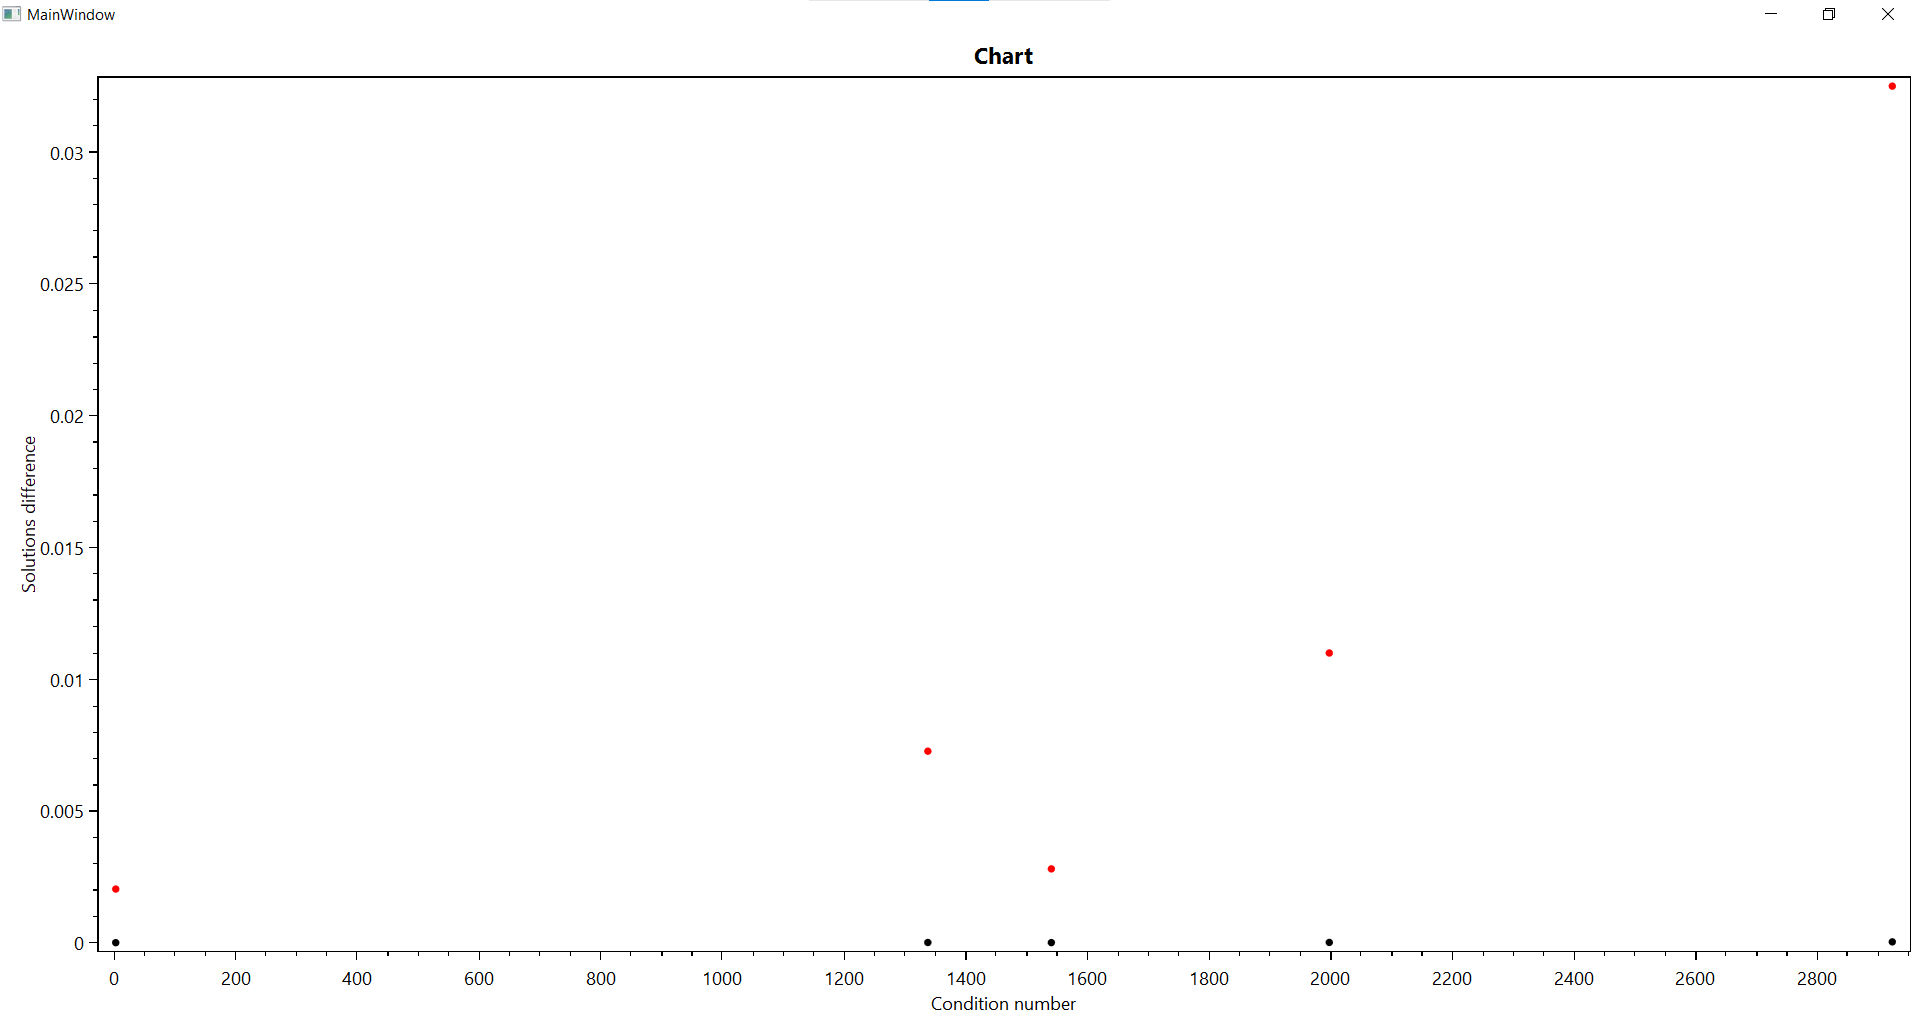
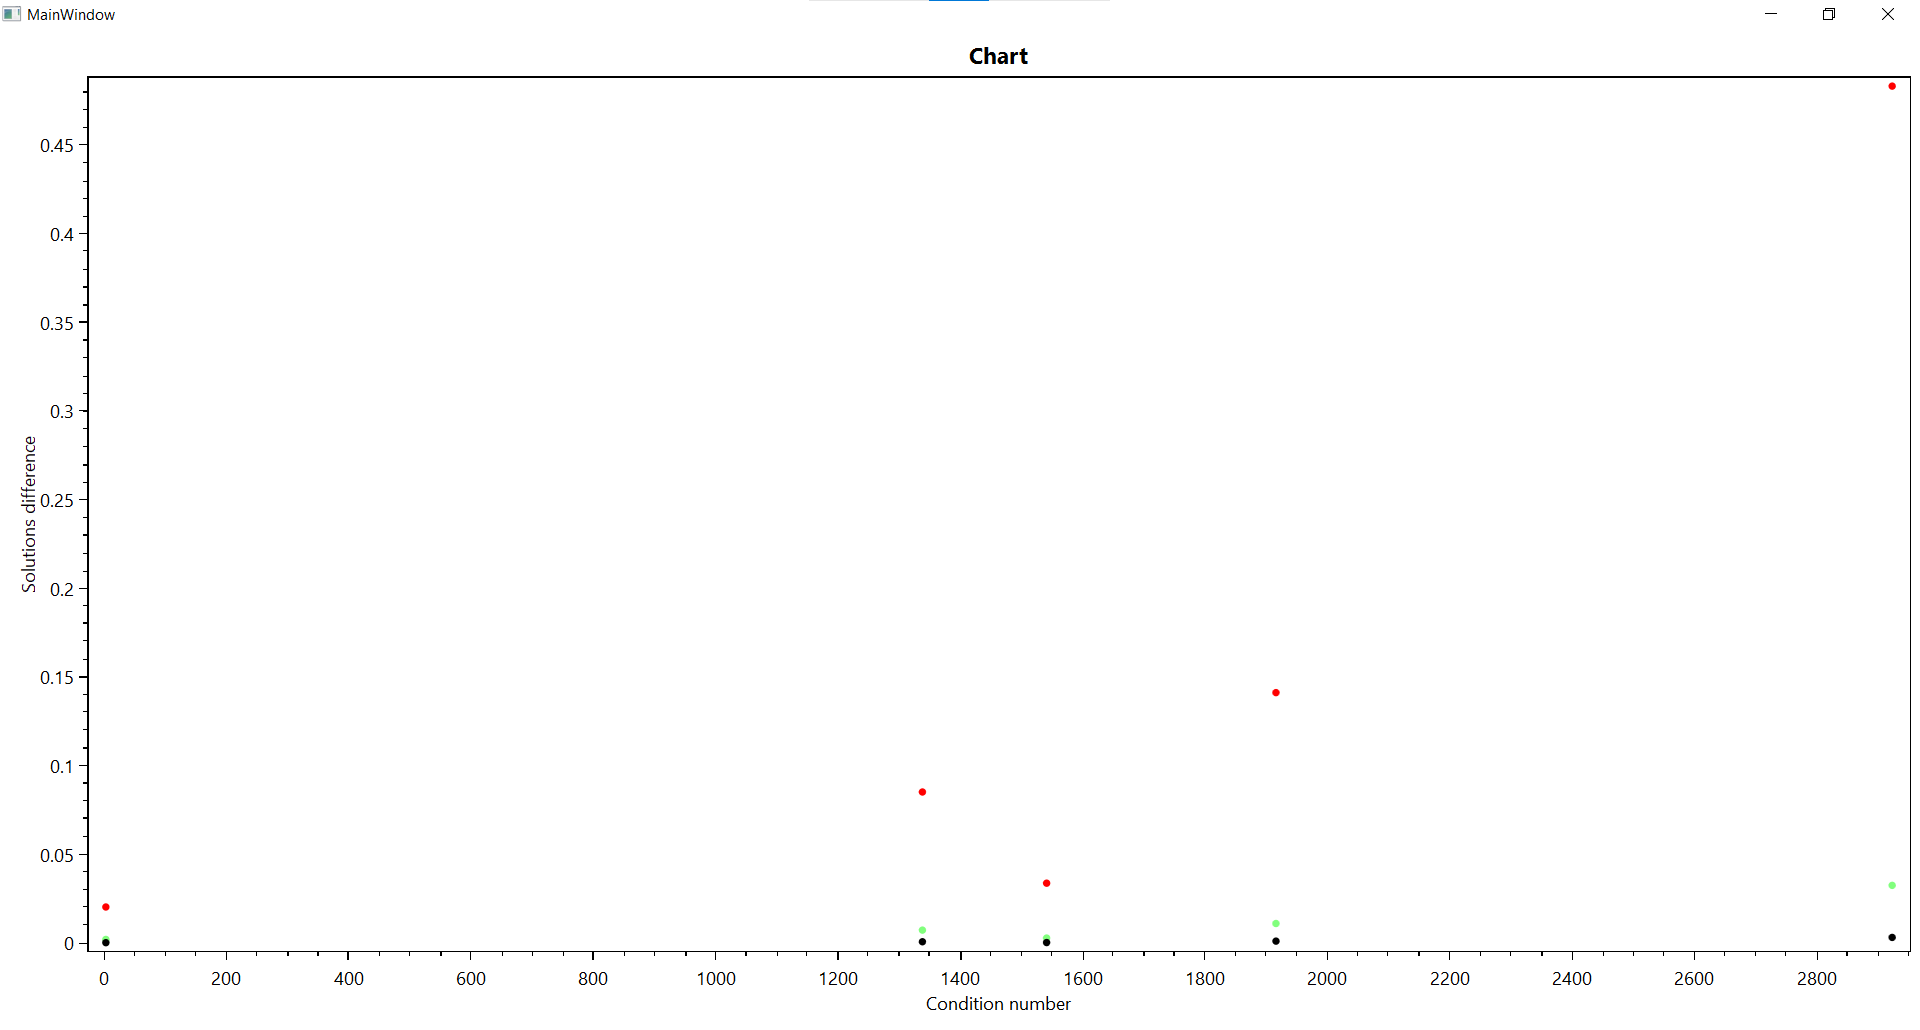
Added another points series and updated pictures

diff --git a/Semester6/Task1/Task1.Chart/MainWindow.xaml.cs b/Semester6/Task1/Task1.Chart/MainWindow.xaml.cs
@@ -116,24 +116,31 @@ namespace Task1.Chart
                 var volumetricCriterion = conditionNumber.CalculateVolumetricCriterion();
                 var angleCriterion = conditionNumber.CalculateAngleCriterion();
 
+                var variedSolution1 = conditionNumber.CalculateVariedSolution(0.1);
                 var variedSolution2 = conditionNumber.CalculateVariedSolution(0.01);
-                var variedSolution5 = conditionNumber.CalculateVariedSolution(0.00001);
+                var variedSolution3 = conditionNumber.CalculateVariedSolution(0.001);
+                var difference1 = equations[i].Item3 - variedSolution1;
                 var difference2 = equations[i].Item3 - variedSolution2;
-                var difference5 = equations[i].Item3 - variedSolution5;
+                var difference3 = equations[i].Item3 - variedSolution3;
+                double delta1 = 0;
                 double delta2 = 0;
-                double delta5 = 0;
+                double delta3 = 0;
                 for (var j = 0; j < equations[i].Item1.RowCount; j++)
                 {
+                    delta1 += difference1[j] * difference1[j];
                     delta2 += difference2[j] * difference2[j];
-                    delta5 += difference5[j] * difference5[j];
+                    delta3 += difference3[j] * difference3[j];
                 }
+                delta1 = Math.Sqrt(delta1);
                 delta2 = Math.Sqrt(delta2);
-                delta5 = Math.Sqrt(delta5);
+                delta3 = Math.Sqrt(delta3);
 
                 // red dots
-                series[i].Points.Add(new ScatterPoint(spectralCriterion, delta2, 3, 1));
+                series[i].Points.Add(new ScatterPoint(spectralCriterion, delta1, 3, 1));
+                // green dots
+                series[i].Points.Add(new ScatterPoint(spectralCriterion, delta2, 3, 0.4));
                 // black dots
-                series[i].Points.Add(new ScatterPoint(spectralCriterion, delta5, 3, 0));
+                series[i].Points.Add(new ScatterPoint(spectralCriterion, delta3, 3, 0));
                 Model.Series.Add(series[i]);
             }
         }
